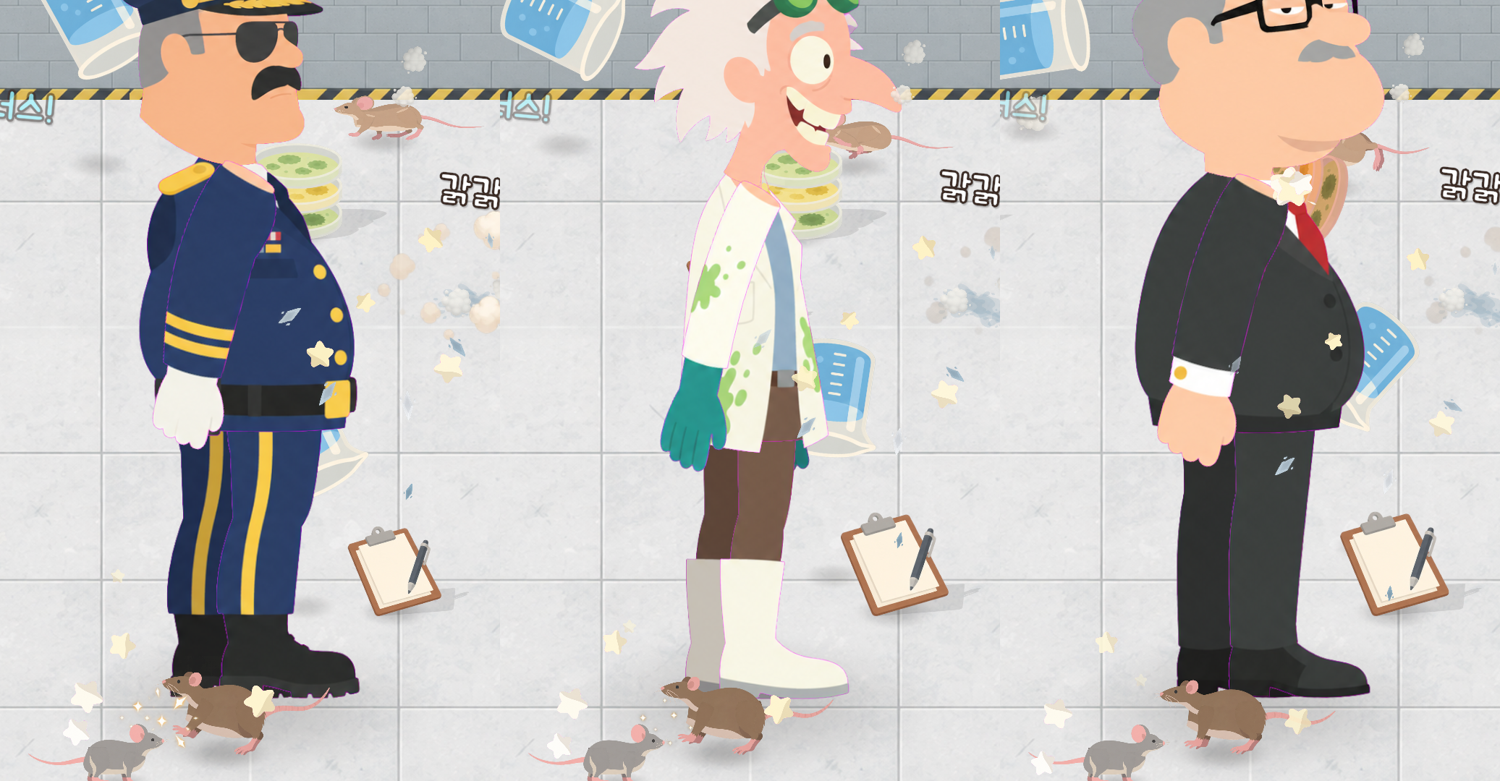
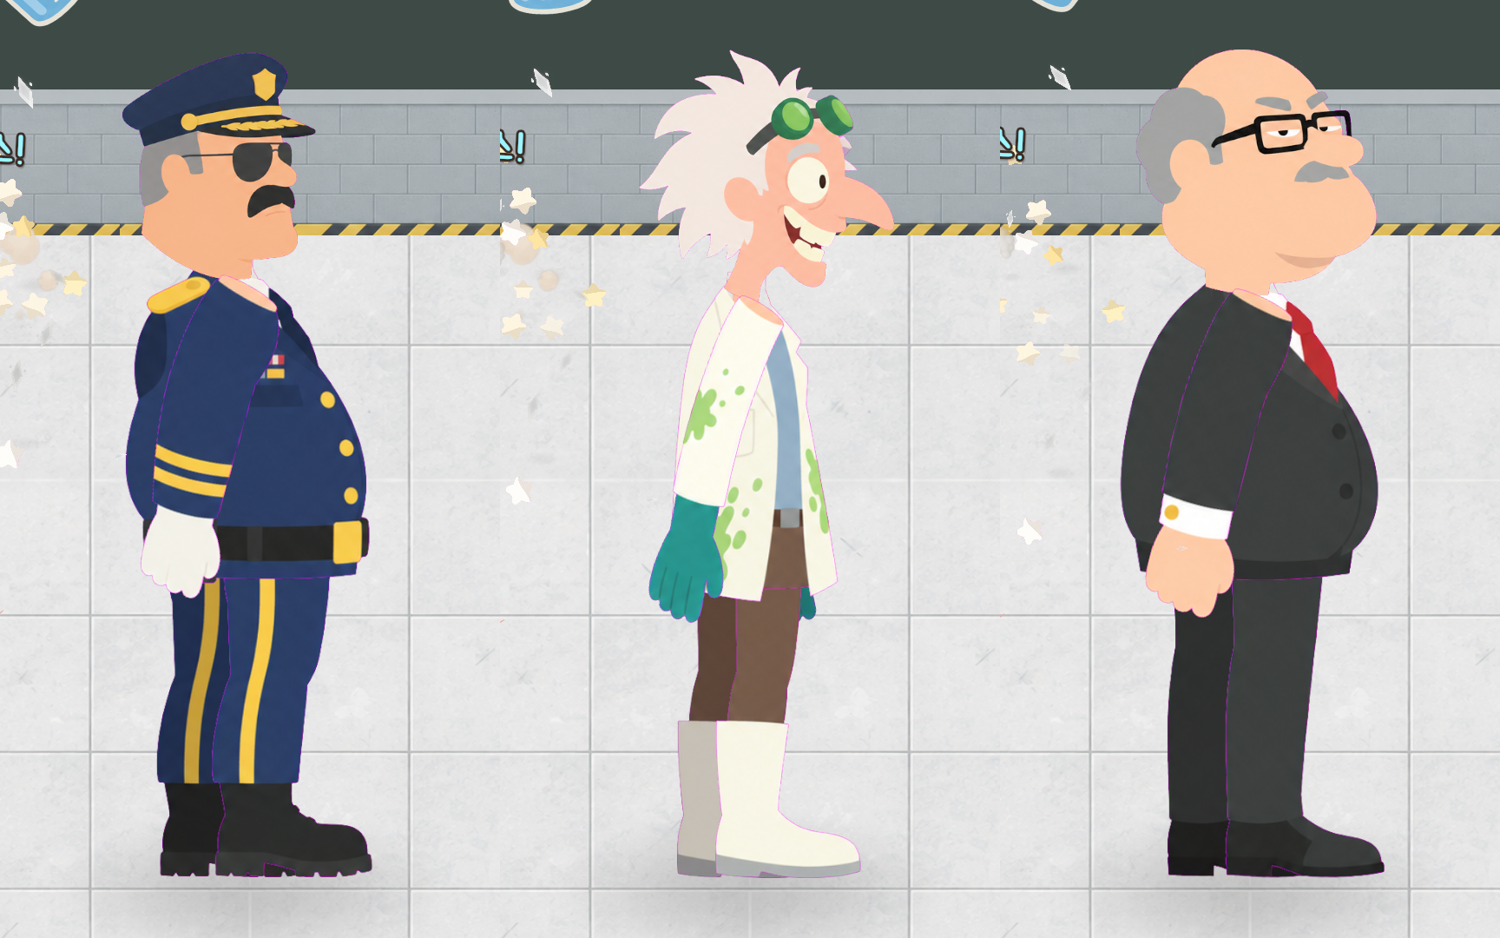
보스 머리 크기 0.85 (head_scale 데이터) + 목 굵기 재맞춤, 로켓 배송 상자가 막힌 벽 두께 안에 떨어져 물건이 가려지던 것 수정

diff --git a/Unity_Making/NKK_Project/Assets/Scripts/Humans/HumanRig.cs b/Unity_Making/NKK_Project/Assets/Scripts/Humans/HumanRig.cs
@@ -17,6 +17,7 @@ namespace NKK.Humans
             [Tooltip("화난 머리 (보스 공격 때, 없으면 head)")] public Sprite angry;
             [Tooltip("몸통 이미지 좌상단 기준 0~1")] public Vector2 neck, shoulder, hip;
             [Tooltip("몸통이 정면 그림 (보스): 팔은 몸통 양옆, 다리는 벌려서, 목은 가운데, 먼 쪽 어둡게 안 함")] public bool front;
+            [Tooltip("머리 크기 배율 (목 기준). 보스 머리가 몸통만큼 커서 0.85")] public float headScale = 1;
         }
         public List<Entry> entries = new();
         public Entry Get(string id) { foreach (var e in entries) if (e.codeId == id) return e; return null; }
@@ -45,7 +46,8 @@ namespace NKK.Humans
             art = e; group = GetComponent<SortingGroup>();
             torso.sprite = e.torso; head.sprite = e.head; armFar.sprite = armNear.sprite = e.arm; legFar.sprite = legNear.sprite = e.leg;
             armFar.color = legFar.color = e.front ? Color.white : farColor;
-            float tw = e.torso.rect.width, th = e.torso.rect.height, lh = e.leg.rect.height, hh = e.head.rect.height;
+            float hsc = e.headScale > 0 ? e.headScale : 1;
+            float tw = e.torso.rect.width, th = e.torso.rect.height, lh = e.leg.rect.height, hh = e.head.rect.height * hsc;
             float legLen = lh * 0.95f;
             unit = height / (legLen + th * e.hip.y + hh * 0.85f);
             hipPx = new Vector2(0, -legLen);
@@ -56,6 +58,7 @@ namespace NKK.Humans
             Vector3 Rel(Vector2 px) => L(px) - L(hipPx);
             torso.transform.localPosition = Rel(new Vector2(tx + tw / 2, ty + th / 2));
             head.transform.localPosition = Rel(neckPx);
+            head.transform.localScale = Vector3.one * hsc;
             if (e.front)
             {
                 // 정면 몸통: 팔은 양 어깨 끝, 다리는 좌우로 (옆모습처럼 가운데 겹치면 팔이 같은 색 몸통에 묻혀 손만 보임)

diff --git a/Tools/gen_sprite_pivots.py b/Tools/gen_sprite_pivots.py
@@ -38,7 +38,7 @@ hm = []
 for hid, m in json.load(io.open(os.path.join(RES, 'Humans', 'Parts', 'pivots.json'), encoding='utf-8')).items():
     a = m['anchor']
     # front = 몸통이 정면 그림이면 pivots.json 에 "front": 1 (팔은 몸통 양옆, 다리 벌림, 목 가운데 — HumanRig.Build). 지금은 전부 옆모습
-    hm.append({'code_id': hid, 'neck': a['neck'], 'shoulder': a['shoulder'], 'hip': a['hip'], 'front': int(m.get('front', 0))})
+    hm.append({'code_id': hid, 'neck': a['neck'], 'shoulder': a['shoulder'], 'hip': a['hip'], 'front': int(m.get('front', 0)), 'head_scale': float(m.get('headScale', 1))})   # head_scale = 머리 크기 배율 (보스 머리가 몸통만큼 커서 0.85)
 OUT3 = os.path.join(ROOT, 'Unity_Making', 'NKK_Project', 'Assets', 'Data', 'HumanRigMeta.json')
 json.dump({'items': hm}, io.open(OUT3, 'w', encoding='utf-8'), ensure_ascii=False, indent=0)
 print(len(hm), 'human rigs ->', OUT3)

diff --git a/Unity_Making/NKK_Project/Assets/Scripts/Data/TableRows.cs b/Unity_Making/NKK_Project/Assets/Scripts/Data/TableRows.cs
@@ -179,6 +179,6 @@ namespace NKK.Data
     [Serializable] public class AchievementRow { public int achv_id; public string achv_name, achv_desc, cond_type; public int target_id, need; public string achv_icon; public int sort_order; }
     [Serializable] public class AchievementTableFile { public List<AchievementRow> Achievement; }
     [Serializable] public class StageTableFile { public List<StageRow> Stage; public List<BossRow> Boss; public List<BossLineRow> Boss_Line; public List<BossAtkRow> Atk_Type; }
-    [Serializable] public class HumanRigMetaRow { public string code_id; public float[] neck, shoulder, hip; public int front; }
+    [Serializable] public class HumanRigMetaRow { public string code_id; public float[] neck, shoulder, hip; public int front; public float head_scale = 1; }
     [Serializable] public class HumanRigMetaFile { public List<HumanRigMetaRow> items; }
 }

diff --git a/Unity_Making/NKK_Project/Assets/Scripts/Items/ItemManager.cs b/Unity_Making/NKK_Project/Assets/Scripts/Items/ItemManager.cs
@@ -396,6 +396,12 @@ namespace NKK.Items
         {
             var k = StageManager.RoomOf(x, y);
             if (!Stage.Open.Contains(k)) return false;
+            // 막힌 벽 두께 안에 떨어지면 물건이 벽에 가려 안 보임 → 방 바닥 안쪽으로 (열린 쪽은 그대로)
+            float m = World.WM + 30, L = k.x * World.RW, T = k.y * World.RH;
+            if (!Stage.IsOpen(k.x - 1, k.y)) x = Mathf.Max(x, L + m);
+            if (!Stage.IsOpen(k.x + 1, k.y)) x = Mathf.Min(x, L + World.RW - m);
+            if (!Stage.IsOpen(k.x, k.y - 1)) y = Mathf.Max(y, T + m + 20);
+            if (!Stage.IsOpen(k.x, k.y + 1)) y = Mathf.Min(y, T + World.RH - m);
             var row = PickWeighted(GameDatabase.Instance.ZoneOf(Game.Floor));
             if (row == null) return false;
             SpriteRenderer r = null;

diff --git a/Unity_Making/NKK_Project/Assets/Editor/RatArtLibraryBuilder.cs b/Unity_Making/NKK_Project/Assets/Editor/RatArtLibraryBuilder.cs
@@ -65,7 +65,7 @@ public static class HumanArtLibraryBuilder
             lib.entries.Add(new NKK.Humans.HumanArtLibrary.Entry
             {
                 codeId = m.code_id, head = S(d + "head.png"), scared = S(d + "scared.png"), angry = S(d + "angry.png"), torso = S(d + "torso.png"),
-                arm = S(d + "arm.png"), leg = S(d + "leg.png"), neck = V(m.neck), shoulder = V(m.shoulder), hip = V(m.hip), front = m.front == 1,
+                arm = S(d + "arm.png"), leg = S(d + "leg.png"), neck = V(m.neck), shoulder = V(m.shoulder), hip = V(m.hip), front = m.front == 1, headScale = m.head_scale > 0 ? m.head_scale : 1,
             });
         }
         EditorUtility.SetDirty(lib);

diff --git a/UnityResources/Rats/Humans/Sheets/boss_v4/README.md b/UnityResources/Rats/Humans/Sheets/boss_v4/README.md
@@ -3,6 +3,7 @@
 예전 boss_v2/v3 몸통은 **정면** 그림이라 옆모습 머리와 안 맞고, 팔(몸통과 같은 색)이 몸통 가운데에 묻혀 장갑만 보였음 → 사용자: 몸통을 옆모습으로 다시.
 - Codex 시트 `boss_side_parts.png` (3열 경비대장·광기의 수석 연구원·연구소장 × 3행 몸통·팔·다리, 자홍 배경), 프롬프트 `prompt_boss_side.txt`, 참고 `ref_side_guard.png`(경비원 옆모습) · `ref_boss_outfits.png`(보스 머리 + 예전 옷).
 - 머리(head·angry·scared)는 예전 그대로. 예전 정면 파츠 = `old_front_*`.
-- 목 맞춤: 몸통 위 목살 중 머리 목 폭(×1.1)보다 넓은 피부 픽셀은 지우고, 남은 목은 머리 피부색으로 칠함 (머리 목 단면과 굵기·색이 이어지게).
+- 머리 크기: 보스 머리가 몸통만큼 커서 `pivots.json headScale` 0.85 (→ HumanRigMeta head_scale → HumanArtLibrary.Entry.headScale, HumanRig 가 목 기준으로 줄임).
+- 목 맞춤: 몸통 위 목살 중 (줄인) 머리 목 폭보다 넓은 피부 픽셀은 지우고, 남은 목은 머리 피부색으로 칠함 (머리 목 단면과 굵기·색이 이어지게).
 - `Humans/Parts/pivots.json` 관절 다시 계산 → `Tools/gen_sprite_pivots.py` → 유니티 재임포트 + NKK/Build Human Art Library.
 - `_미리보기.png` = 게임 화면 (Boss 테스트 소환).
